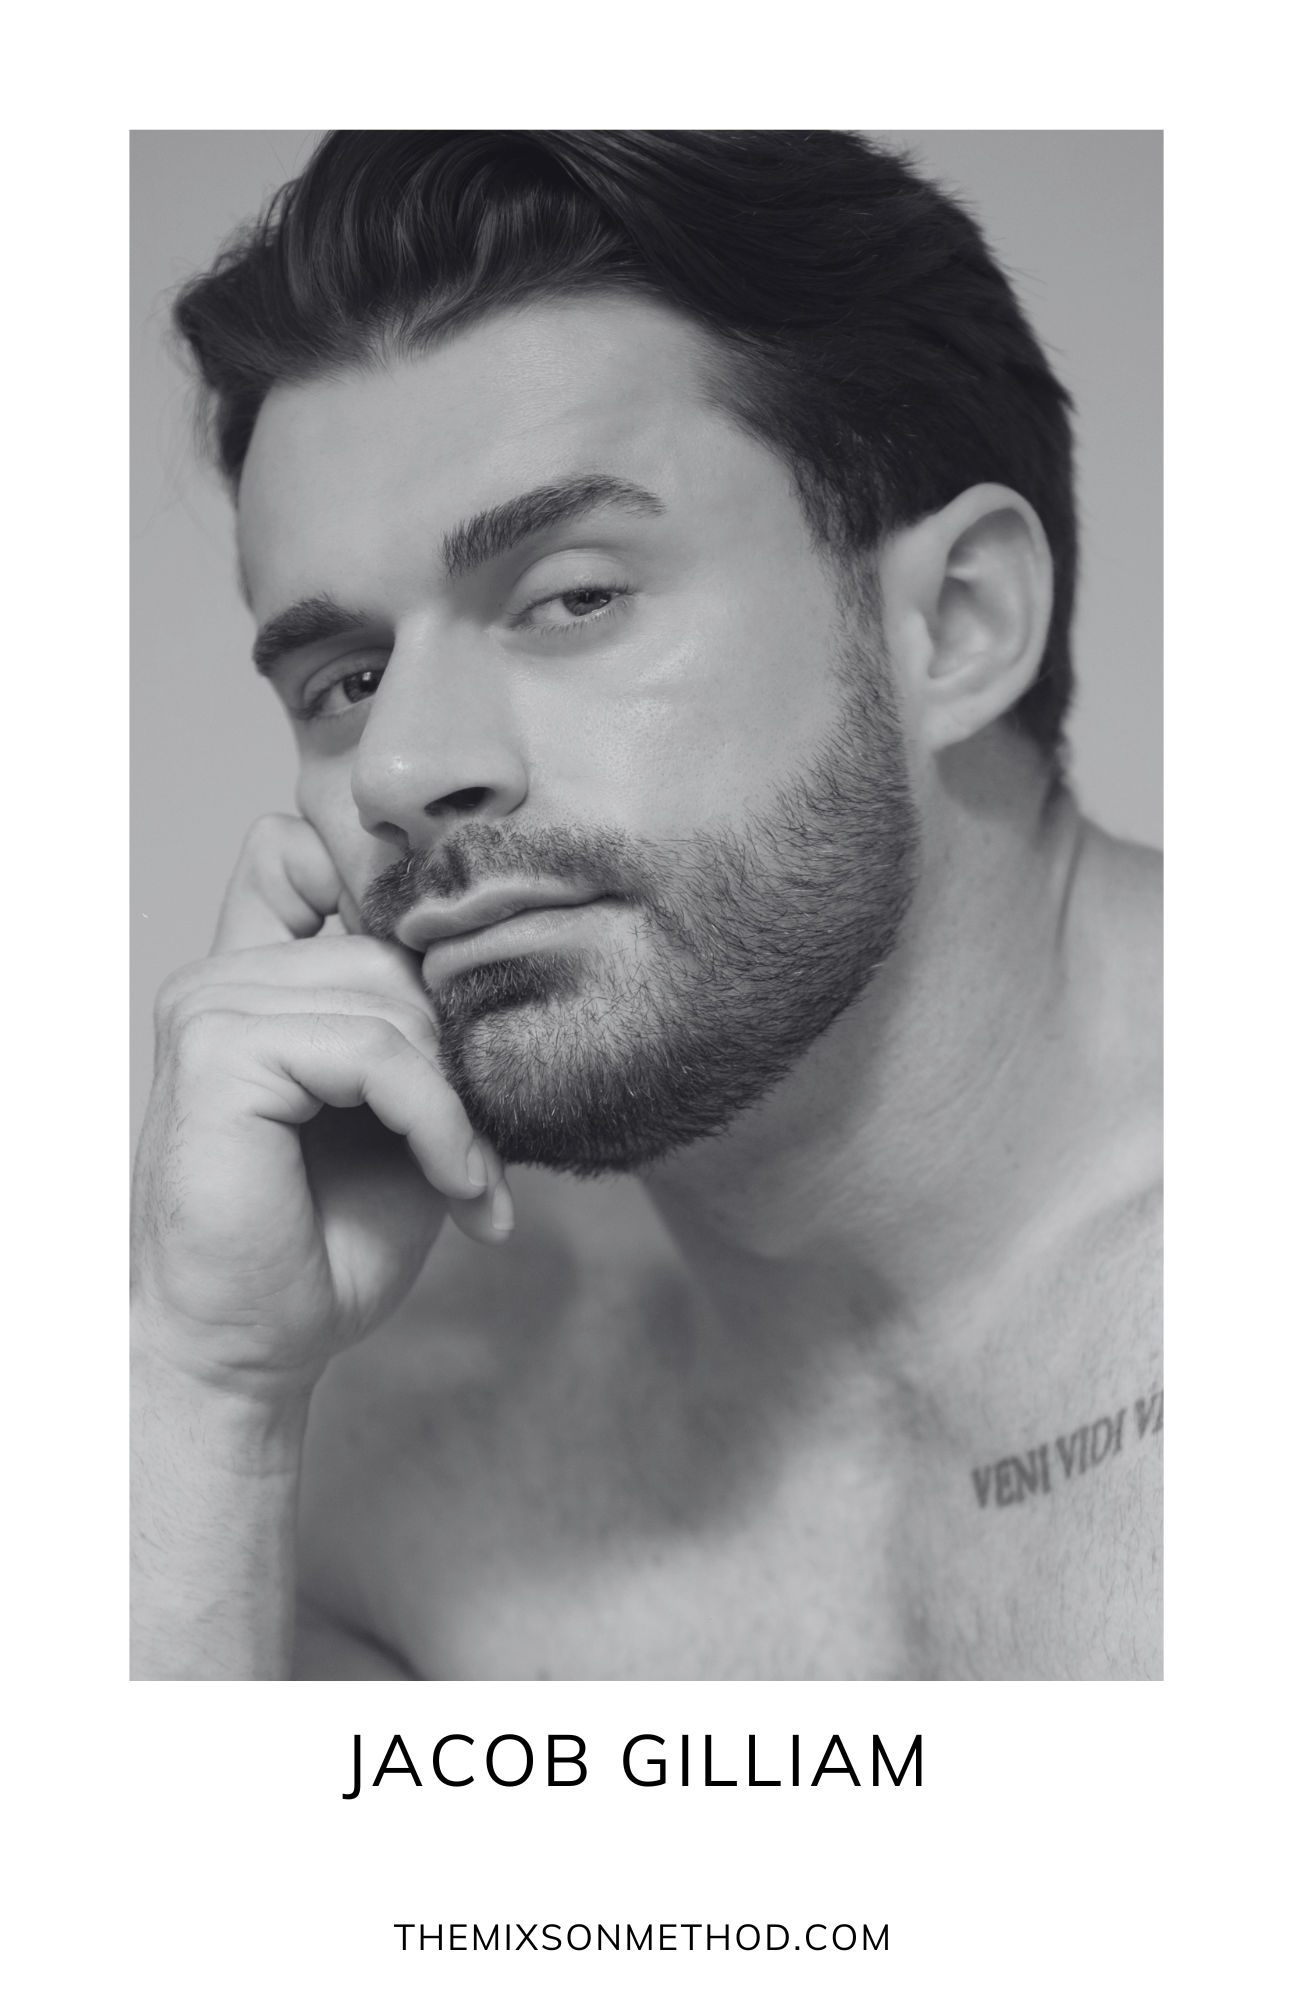
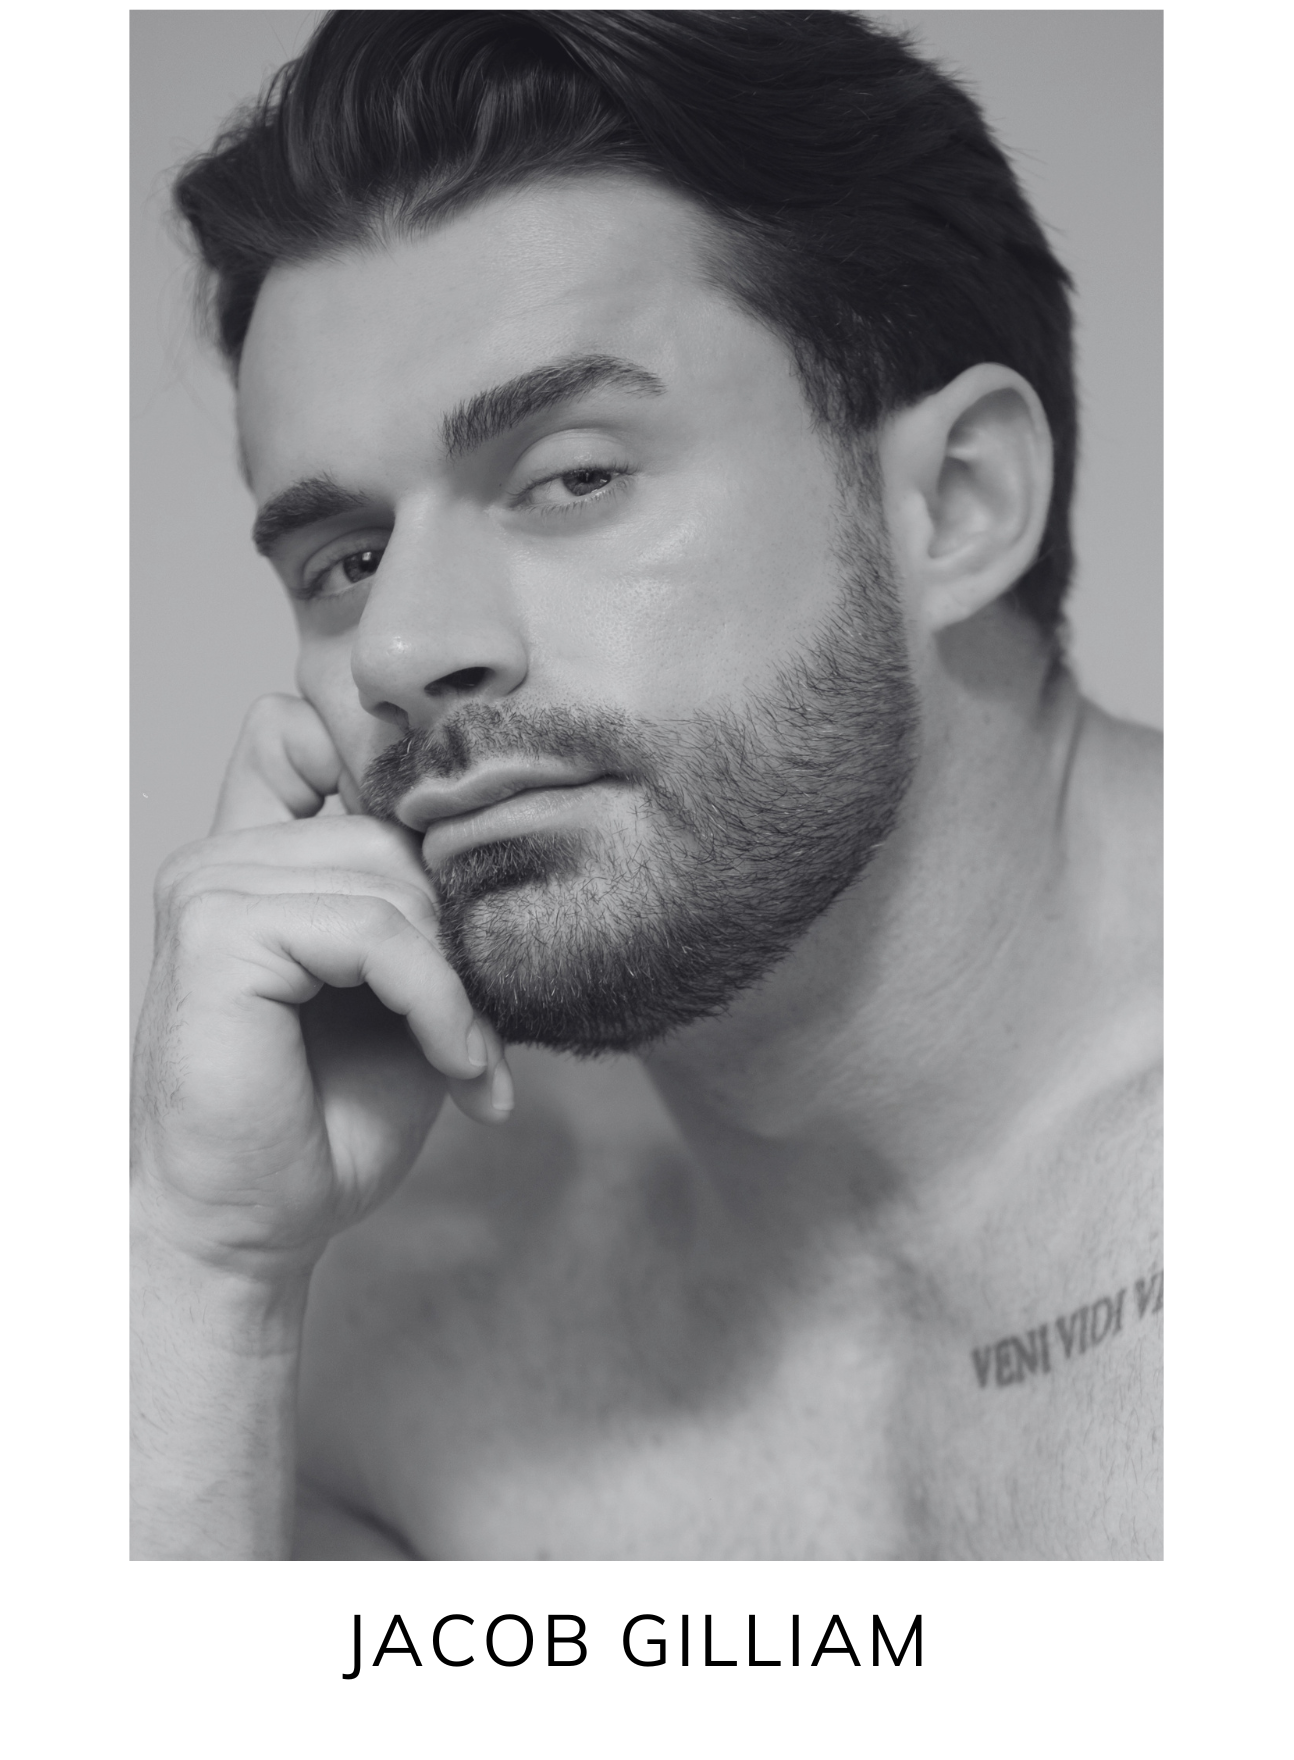
Add name labels back to all model cards, crop URL from Jacob's hero

diff --git a/components/model-card.tsx b/components/model-card.tsx
@@ -25,6 +25,9 @@ export function ModelCard({ model }: { model: Model }) {
           />
         )}
       </div>
+      <p className="font-heading text-lg tracking-wide text-center uppercase group-hover:text-muted transition-colors">
+        {model.name}
+      </p>
     </a>
   );
 }
